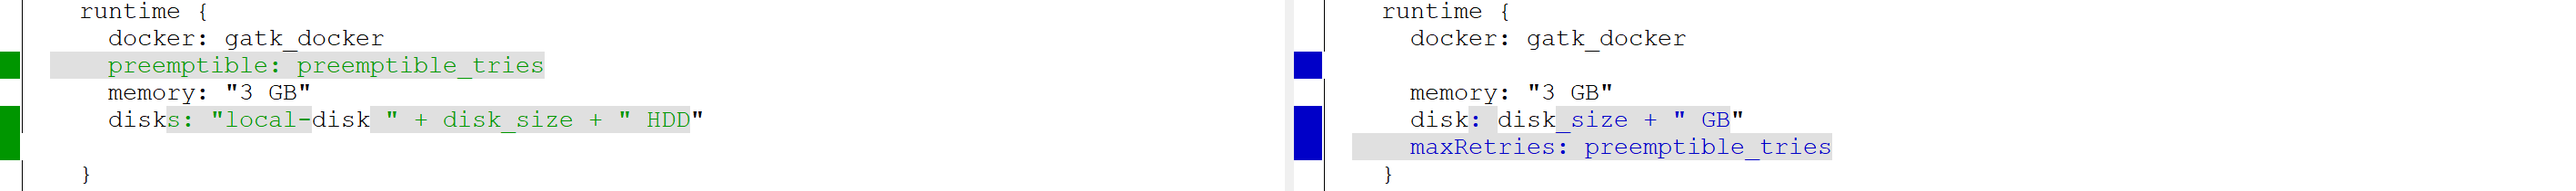
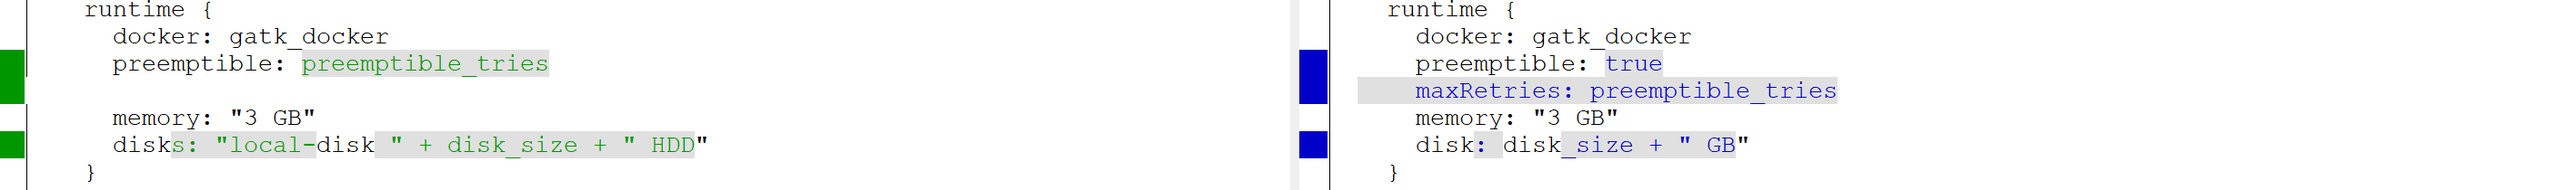
Incorporate feedback
Categorize README links at the top
Fix "preemptible" attribute use guidance; add other unsupported attribute to list
Update screenshots
Grammar and spelling changes

diff --git a/docs/troubleshooting-guide.md b/docs/troubleshooting-guide.md
@@ -1,4 +1,4 @@
-# FAQs, advanced troubleshooting and known issues for Crowmwell on Azure
+# FAQs, advanced troubleshooting and known issues for Cromwell on Azure
 
 This article answers FAQs, describes advanced features that allow customization and debugging of Cromwell on Azure, as well as how to diagnose, debug, and work around [known issues](#Known-Issues-And-Mitigation). We are actively tracking these as bugs to be fixed in upcoming releases!
 
@@ -13,23 +13,23 @@ This article answers FAQs, describes advanced features that allow customization 
    * How can I see [how far along my workflow has progressed?](#Check-all-tasks-running-for-a-workflow-using-Batch-account)
    * My workflow failed at task X. Where should I look to determine why it failed?
      * [Which tasks failed?](#Find-which-tasks-failed-in-a-workflow)
-     * Some tasks are stuck or my workflow is stuck in the "inprogess" directory in the "workflows" container. [Were there Azure infrastructure issues?](#Make-sure-there-are-no-Azure-infrastructure-errors)
+     * Some tasks are stuck or my workflow is stuck in the "inprogress" directory in the "workflows" container. [Were there Azure infrastructure issues?](#Make-sure-there-are-no-Azure-infrastructure-errors)
 
 3. Customizing your instance
    * How do I [use input data files for my workflows from a different Azure Storage account](#Use-input-data-files-from-an-existing-Storage-account-that-my-lab-or-team-is-currently-using) that my lab or team is currently using?
-   * Can I connect a different [Batch account with previously increased quotas](#Use-a-Batch-account-for-which-I-have-already-requested-or-received-increased-cores-quota-from-Azure-Support) to run my workflows?
-   * How can I [use private docker containers for my workflows?](#Use-private-docker-containers-hosted-on-Azure)
-   * A lot of tasks for my workflows run longer than 24 hours and have been randomly stopped. How can I [run all my tasks on dedicated Batch VMs](#Configure-my-Cromwell-on-Azure-instance-to-use-dedicated-Batch-VMs-to-avoid-getting-preempted)
+   * Can I connect a different [batch account with previously increased quotas](#Use-a-batch-account-for-which-I-have-already-requested-or-received-increased-cores-quota-from-Azure-Support) to run my workflows?
+   * How can I [use private Docker containers for my workflows?](#Use-private-docker-containers-hosted-on-Azure)
+   * A lot of tasks for my workflows run longer than 24 hours and have been randomly stopped. How can I [run all my tasks on dedicated batch VMs](#Configure-my-Cromwell-on-Azure-instance-to-always-use-dedicated-Batch-VMs-to-avoid-getting-preempted)
    * Can I get [direct access to Cromwell's REST API?](#Access-the-Cromwell-REST-API-directly-from-Linux-host-VM)
 
 4. Performance & Optimization
    * How can I figure out how much Cromwell on Azure costs me?
      * How much am I [paying for my Cromwell on Azure instance?](#Cost-analysis-for-Cromwell-on-Azure)
-     * How are [Batch VMs selected to run tasks in a workflow?](#How-Cromwell-on-Azure-selects-Batch-VMs-to-run-tasks-in-a-workflow)
+     * How are [batch VMs selected to run tasks in a workflow?](#How-Cromwell-on-Azure-selects-batch-VMs-to-run-tasks-in-a-workflow)
    * Do you have guidance on how to [optimize my WDLs](#Optimize-my-WDLs)?
 
-5. Miscellanous
-   * I cannot find my issue in this document and [want more information](#Get-container-logs-to-debug-issues) from Cromwell, MySQL, or TES docker container logs.
+5. Miscellaneous
+   * I cannot find my issue in this document and [want more information](#Get-container-logs-to-debug-issues) from Cromwell, MySQL, or TES Docker container logs.
    * I am running a large amount of workflows and [MySQL storage disk is full](#I-am-running-a-large-amount-of-workflows-and-MySQL-storage-disk-is-full)
 
 
@@ -75,15 +75,12 @@ This section is COMING SOON.
 ### Debug my Cromwell on Azure installation that ran into an error
 When the Cromwell on Azure installer is run, if there are errors, the logs are printed in the terminal. Most errors are related to insufficient permissions to create resources in Azure on your behalf, or intermittent Azure failures. In case of an error, we terminate the installation process and begin deleting all the resources in the Resource Group if already created. <br/>
 
-Deleting all the resources in the Resource Group may take a while but as soon as you see logs that the Batch account was deleted, you may exit the current process using Ctrl+C or Command+C on terminal/command prompt/PowerShell. The deletion of other Azure resources can continue in the background on Azure. Re-run the installer after fixing any user errors like permissions from the previous try.
+Deleting all the resources in the Resource Group may take a while but as soon as you see logs that the batch account was deleted, you may exit the current process using Ctrl+C or Command+C on terminal/command prompt/PowerShell. The deletion of other Azure resources can continue in the background on Azure. Re-run the installer after fixing any user errors like permissions from the previous try.
 
 If you see an issue that is unrelated to your permissions, and re-trying the installer does not fix it, please file a bug on our GitHub issues.
 
 ### Upgrade my Cromwell on Azure instance
-Starting in version 1.x, for convenience, some configuration files are hosted on your Cromwell on Azure Storage account, in the "configuration" container - `containers-to-mount`, and `cromwell-application.conf`. You can modify and save these file using Azure Portal UI "Edit Blob" option or simply upload a new file to replace the existing one. Please create the "configuration" container in the if it isn't there already.<br/>
-
-[Follow these steps](https://github.com/microsoft/CromwellOnAzure/releases/tag/1.3.0) to upgrade your Cromwell on Azure instance.
-
+Starting in version 1.x, for convenience, some configuration files are hosted on your Cromwell on Azure storage account, in the "configuration" container - `containers-to-mount`, and `cromwell-application.conf`. You can modify and save these file using Azure Portal UI "Edit Blob" option or simply upload a new file to replace the existing one. Please create the "configuration" container in your storage account if it isn't there already; and then [follow these steps](https://github.com/microsoft/CromwellOnAzure/releases/tag/1.3.0) to upgrade your Cromwell on Azure instance.
 
 ## Analysis
 ### Job failed immediately
@@ -97,7 +94,7 @@ If a workflow you start has a task that failed immediately and lead to workflow 
 > Example file path for an "inputs" container in a storage account "msgenpublicdata" will look like
 `"/msgenpublicdata/inputs/chr21.read1.fq.gz"`
 
-Another possibility is that you are trying to use a Storage account that hasn't been mounted to your Cromwell on Azure instance - either by [default during setup](../README.md/#Cromwell-on-Azure-deployed-resources) or by following these steps to [mount a different Storage account](#Use-input-data-files-from-an-existing-Storage-account-that-my-lab-or-team-is-currently-using). <br/>
+Another possibility is that you are trying to use a storage account that hasn't been mounted to your Cromwell on Azure instance - either by [default during setup](../README.md/#Cromwell-on-Azure-deployed-resources) or by following these steps to [mount a different storage account](#Use-input-data-files-from-an-existing-Storage-account-that-my-lab-or-team-is-currently-using). <br/>
 
 Check out these [known issues and mitigation](#Known-Issues-And-Mitigation) for more commonly seen issues caused by bugs we are actively tracking.
 
@@ -107,7 +104,7 @@ There are also links to ready-to-try WDLs for common workflows [here](../README.
 
 **Instructions to write a WDL file for a pipeline from scratch are COMING SOON.**
 
-### Check all tasks running for a workflow using Batch account
+### Check all tasks running for a workflow using batch account
 Each task in a workflow starts an Azure Batch VM. To see currently active tasks, navigate to your Azure Batch account connected to Cromwell on Azure on Azure Portal. Click on "Jobs" and then search for the Cromwell `workflowId` to see all tasks associated with a workflow.<br/>
 
 ![Batch account](screenshots/batch-account.png)
@@ -140,9 +137,9 @@ You can explore exceptions or logs to find the reason for failure, and use time 
 
 
 ## Customizing your Cromwell on Azure instance
-### Connect to the host VM that runs all the docker containers
+### Connect to the host VM that runs all the Docker containers
 
-To get logs from all the docker containers or to use the Cromwell REST API endpoints, you may want to connect to the Linux host VM. At installation, a user is created to allow managing the host VM with username "vmadmin". The password is randomly generated and shown during installation. If you need to reset your VM password, you can do this using the Azure Portal or by following these [instructions](https://docs.microsoft.com/en-us/azure/virtual-machines/troubleshooting/reset-password). 
+To get logs from all the Docker containers or to use the Cromwell REST API endpoints, you may want to connect to the Linux host VM. At installation, a user is created to allow managing the host VM with username "vmadmin". The password is randomly generated and shown during installation. If you need to reset your VM password, you can do this using the Azure Portal or by following these [instructions](https://docs.microsoft.com/en-us/azure/virtual-machines/troubleshooting/reset-password). 
 
 ![Reset password](/docs/screenshots/resetpassword.PNG)
 
@@ -150,20 +147,20 @@ To connect to your host VM, you can either
 1. Construct your ssh connection string if you have the VM name `ssh vmadmin@<hostname>` OR
 2. Navigate to the Connect button on the Overview blade of your Azure VM instance, then copy the ssh connection string. 
 
-Paste the ssh connectiong string in a command line, PowerShell or terminal application to log in.
+Paste the ssh connection string in a command line, PowerShell or terminal application to log in.
 
 ![Connect with SSH](/docs/screenshots/connectssh.PNG)
 
-### Use input data files from an existing Storage account that my lab or team is currently using
+### Use input data files from an existing storage account that my lab or team is currently using
 Navigate to the "configuration" container in the Cromwell on Azure Storage account. Replace YOURSTORAGEACCOUNTNAME with your storage account name and YOURCONTAINERNAME with your container name in the `containers-to-mount` file below:
 ```
 /YOURSTORAGEACCOUNTNAME/YOURCONTAINERNAME/
 ```
 Add this to the end of file and save your changes.<br/>
 
-To allow the host VM to write to a Storage account, [add the VM identity as a Contributor](/README.md/#Connect-to-existing-Azure-resources-I-own-that-are-not-part-of-the-Cromwell-on-Azure-instance-by-default) to the Storage Account via Azure Portal or Azure CLI.<br/>
+To allow the host VM to write to a storage account, [add the VM identity as a Contributor](/README.md/#Connect-to-existing-Azure-resources-I-own-that-are-not-part-of-the-Cromwell-on-Azure-instance-by-default) to the Storage Account via Azure Portal or Azure CLI.<br/>
 
-Alternatively, you can choose to add a [SAS url for your desired container](https://docs.microsoft.com/en-us/azure/storage/common/storage-sas-overview) to the end of the `containers-to-mount` file. This is also applicable if your VM cannot be granted Contributor access to the Storage account because the two resources are in different Azure tenants
+Alternatively, you can choose to add a [SAS url for your desired container](https://docs.microsoft.com/en-us/azure/storage/common/storage-sas-overview) to the end of the `containers-to-mount` file. This is also applicable if your VM cannot be granted Contributor access to the storage account because the two resources are in different Azure tenants
 ```
 https://<yourstorageaccountname>.blob.core.windows.net:443/<yourcontainername>?<sastoken>
 ```
@@ -172,34 +169,34 @@ When using the newly mounted storage account in your inputs JSON file, use the p
 
 For these changes to take effect, be sure to restart your Cromwell on Azure VM through the Azure Portal UI.
 
-### Use a Batch account for which I have already requested or received increased cores quota from Azure Support
-[Log on to the host VM](#Connect-to-the-host-VM-that-runs-all-the-docker-containers) using the ssh connection string as described in the instructions. Replace `BatchAccountName` environment variable for the "tes" service in the `docker-compose.yml` file with the name of the desired Batch account and save your changes.<br/>
+### Use a batch account for which I have already requested or received increased cores quota from Azure Support
+[Log on to the host VM](#Connect-to-the-host-VM-that-runs-all-the-docker-containers) using the ssh connection string as described in the instructions. Replace `BatchAccountName` environment variable for the "tes" service in the `docker-compose.yml` file with the name of the desired batch account and save your changes.<br/>
 
 ```
 cd /cromwellazure/
 sudo nano docker-compose.yml
 # Modify the BatchAccountName to your Batch Account name and save the file
 ```
-To allow the host VM to use a batch account, [add the VM identity as a Contributor](../README.md/#Connect-to-existing-Azure-resources-I-own-that-are-not-part-of-the-Cromwell-on-Azure-instance-by-default) to the Azure Batch account via Azure Portal or Azure CLI.<br/>
+To allow the host VM to use a batch account, [add the VM identity as a Contributor](../README.md/#Connect-to-existing-Azure-resources-I-own-that-are-not-part-of-the-Cromwell-on-Azure-instance-by-default) to the Azure batch account via Azure Portal or Azure CLI.<br/>
 To allow the host VM to read prices and information about types of machines available for the batch account, [add the VM identity as a Billing Reader](../README.md/#Connect-to-existing-Azure-resources-I-own-that-are-not-part-of-the-Cromwell-on-Azure-instance-by-default) to the subscription with the configured Batch Account.
 
 For these changes to take effect, be sure to restart your Cromwell on Azure VM through the Azure Portal UI or run `sudo reboot`. or run `sudo reboot`.
 
-### Use private docker containers hosted on Azure
-Cromwell on Azure supports private docker images for your WDL tasks hosted on [Azure Container Registry or ACR](https://docs.microsoft.com/en-us/azure/container-registry/).
+### Use private Docker containers hosted on Azure
+Cromwell on Azure supports private Docker images for your WDL tasks hosted on [Azure Container Registry or ACR](https://docs.microsoft.com/en-us/azure/container-registry/).
 To allow the host VM to use an ACR, [add the VM identity as a Contributor](../README.md/#Connect-to-existing-Azure-resources-I-own-that-are-not-part-of-the-Cromwell-on-Azure-instance-by-default) to the Container Registry via Azure Portal or Azure CLI.<br/>
 
-### Configure my Cromwell on Azure instance to use dedicated Batch VMs to avoid getting preempted
-By default, we are using an environment variable `UsePreemptibleVmsOnly` set to true, to always use low priority Azure Batch nodes.<br/>
+### Configure my Cromwell on Azure instance to always use dedicated batch VMs to avoid getting preempted
+By default, we are using an environment variable `UsePreemptibleVmsOnly` set to true, to always use low priority Azure batch nodes.<br/>
 
-If you prefer to use dedicated Azure Batch nodes, [log on to the host VM](#Connect-to-the-host-VM-that-runs-all-the-docker-containers) using the ssh connection string as described in the instructions. Replace `UsePreemptibleVmsOnly` environment variable for the "tes" service to "false" in the `docker-compose.yml` file and save your changes.<br/>
+If you prefer to use dedicated Azure Batch nodes for all tasks, [log on to the host VM](#Connect-to-the-host-VM-that-runs-all-the-docker-containers) using the ssh connection string as described in the instructions. Replace `UsePreemptibleVmsOnly` environment variable for the "tes" service to "false" in the `docker-compose.yml` file and save your changes.<br/>
 
 ```
 cd /cromwellazure/
 sudo nano docker-compose.yml
 # Modify UsePreemptibleVmsOnly to false and save the file
 ```
-
+Note that, you can set this for each task individually by using the `preemptible` boolean flag set to `true` or `false` in the "runtime" attributes section of your task. The `preemptible` runtime attribute will overwrite the `UsePreemptibleVmsOnly` environment variable setting for a particular task.<br/>
 For these changes to take effect, be sure to restart your Cromwell on Azure VM through the Azure Portal UI or run `sudo reboot`.
 
 ### Access the Cromwell REST API directly from Linux host VM
@@ -225,8 +222,8 @@ To learn more about your Cromwell on Azure Resource Group's cost, navigate to th
 
 You can also use the [Pricing Calculator](https://azure.microsoft.com/en-us/pricing/calculator/) to estimate your monthly cost.
 
-### How Cromwell on Azure selects Batch VMs to run tasks in a workflow
-VM price data is used to select the most cost-effective VM for a task's runtime requirements, and is also stored in the TES database to allow calculation of total workflow cost.  VM price data is obtained from the [Azure RateCard API](https://docs.microsoft.com/en-us/previous-versions/azure/reference/mt219005(v=azure.100)).  Accessing the Azure RateCard API requires the VM's [Billing Reader](https://docs.microsoft.com/en-us/azure/role-based-access-control/built-in-roles#billing-reader) role to be assigned to your Azure subscription scope.  If you don't have [Owner](https://docs.microsoft.com/en-us/azure/role-based-access-control/built-in-roles#owner), or both [Contributor](https://docs.microsoft.com/en-us/azure/role-based-access-control/built-in-roles#contributor) and [User Access Administrator](https://docs.microsoft.com/en-us/azure/role-based-access-control/built-in-roles#user-access-administrator) roles assigned to your Azure subscription, the deployer will not be able to complete this on your behalf - you will need to contact your Azure subscription administrator(s) to complete this for you.  You will see a warning in the TES logs indicating that default VM prices are being used until this is resolved.
+### How Cromwell on Azure selects batch VMs to run tasks in a workflow
+VM price data is used to select the cheapest per hour VM for a task's runtime requirements, and is also stored in the TES database to allow calculation of total workflow cost.  VM price data is obtained from the [Azure RateCard API](https://docs.microsoft.com/en-us/previous-versions/azure/reference/mt219005(v=azure.100)).  Accessing the Azure RateCard API requires the VM's [Billing Reader](https://docs.microsoft.com/en-us/azure/role-based-access-control/built-in-roles#billing-reader) role to be assigned to your Azure subscription scope.  If you don't have [Owner](https://docs.microsoft.com/en-us/azure/role-based-access-control/built-in-roles#owner), or both [Contributor](https://docs.microsoft.com/en-us/azure/role-based-access-control/built-in-roles#contributor) and [User Access Administrator](https://docs.microsoft.com/en-us/azure/role-based-access-control/built-in-roles#user-access-administrator) roles assigned to your Azure subscription, the deployer will not be able to complete this on your behalf - you will need to contact your Azure subscription administrator(s) to complete this for you.  You will see a warning in the TES logs indicating that default VM prices are being used until this is resolved.
 
 ### Optimize my WDLs
 This section is COMING SOON.
@@ -234,12 +231,12 @@ This section is COMING SOON.
 
 ## Miscellaneous
 ### Get container logs to debug issues
-The host VM is running multiple docker containers that enable Cromwell on Azure - mysql, broadinstitute/cromwell, cromwellonazure/tes, cromwellonazure/triggerservice. On rare occasions, you may want to debug and diagnose issues with the docker containers. After [logging in to the host VM](#Connect-to-the-host-VM-that-runs-all-the-docker-containers), run: 
+The host VM is running multiple Docker containers that enable Cromwell on Azure - mysql, broadinstitute/cromwell, cromwellonazure/tes, cromwellonazure/triggerservice. On rare occasions, you may want to debug and diagnose issues with the Docker containers. After [logging in to the host VM](#Connect-to-the-host-VM-that-runs-all-the-docker-containers), run: 
 ```
 sudo docker ps
 ```
 
-This command will list the names of all the docker containers currently running. To get logs for a particular container, run: 
+This command will list the names of all the Docker containers currently running. To get logs for a particular container, run: 
 ```
 sudo docker logs 'containerName'
 ```

diff --git a/README.md b/README.md
@@ -1,17 +1,19 @@
 # Welcome to Cromwell on Azure
 
-What is [Cromwell on Azure?](#Cromwell-on-Azure) <br/>
-Deploy Cromwell on Azure now using this [guide](#Deploy-your-instance-of-Cromwell-on-Azure)<br/>
-A brief [demo video](https://youtu.be/QlRQ63n_mKw) on how to run workflows using Cromwell on Azure<br/>
+#### Getting started
+ * What is [Cromwell on Azure?](#Cromwell-on-Azure) <br/>
+ * Deploy Cromwell on Azure now using this [guide](#Deploy-your-instance-of-Cromwell-on-Azure)<br/>
+ * A brief [demo video](https://youtu.be/QlRQ63n_mKw) on how to run workflows using Cromwell on Azure<br/>
 
-Prepare, start or abort your worklow [using this guide](docs/managing-your-workflow.md/#Managing-your-workflow)<br/>
-Here is an example workflow to [convert FASTQ files to uBAM files](docs/example-fastq-to-ubam.md/#Example-workflow-to-convert-FASTQ-files-to-uBAM-files)<br/>
-Have an existing WDL file that you want to run on Azure? [Modify your existing WDL with these adaptations for Azure](docs/change-existing-WDL-for-Azure.md/#How-to-modify-an-existing-WDL-file-to-run-on-Cromwell-on-Azure)<br/>
+#### Running workflows
+ * Prepare, start or abort your workflow [using this guide](docs/managing-your-workflow.md/#Managing-your-workflow)<br/>
+ * Here is an example workflow to [convert FASTQ files to uBAM files](docs/example-fastq-to-ubam.md/#Example-workflow-to-convert-FASTQ-files-to-uBAM-files)<br/>
+ * Have an existing WDL file that you want to run on Azure? [Modify your existing WDL with these adaptations for Azure](docs/change-existing-WDL-for-Azure.md/#How-to-modify-an-existing-WDL-file-to-run-on-Cromwell-on-Azure)<br/>
+ * Want to run commonly used workflows? [Find links to ready-to-use workflows here](#Run-Common-Workflows)<br/>
 
-Want to run commonly used workflows? [Find links to ready-to-use workflows here](#Run-Common-Workflows)<br/>
-
-Questions? See our [Troubleshooting Guide](docs/troubleshooting-guide.md/#FAQs,-advanced-troubleshooting-and-known-issues-for-Crowmwell-on-Azure) for more information.<br/>
-Known issues and work-arounds are [documented here](docs/troubleshooting-guide.md/#Known-Issues-And-Mitigation)<br/>
+#### Questions?
+ * See our [Troubleshooting Guide](docs/troubleshooting-guide.md/#FAQs,-advanced-troubleshooting-and-known-issues-for-Cromwell-on-Azure) for more information.<br/>
+ * Known issues and work-arounds are [documented here](docs/troubleshooting-guide.md/#Known-Issues-And-Mitigation)<br/>
 
 If you are running into an issue and cannot find any information in the troubleshooting guide, please open a GitHub issue!<br/>
 
@@ -28,7 +30,7 @@ Cromwell on Azure configures all Azure resources needed to run workflows through
 
 ### Prerequisites
 
-1. You will need an [Azure Subscription](https://portal.azure.com/) to deploy Cromwell on Azure, if you don't already have one.
+1. You will need an [Azure Subscription](https://portal.azure.com/) to deploy Cromwell on Azure.
 2. You must have the proper [Azure role assignments](https://docs.microsoft.com/en-us/azure/role-based-access-control/overview) to deploy Cromwell on Azure.  To check your current role assignments, please follow [these instructions](https://docs.microsoft.com/en-us/azure/role-based-access-control/check-access).  You must have one of the following combinations of [role assignments](https://docs.microsoft.com/en-us/azure/role-based-access-control/built-in-roles):
    1. `Owner` of the subscription<br/>
    2. `Contributor` and `User Access Administrator` of the subscription
@@ -36,7 +38,7 @@ Cromwell on Azure configures all Azure resources needed to run workflows through
       . *Note: this level of access will result in a warning during deployment, and will not use the latest VM pricing data.</i>  [Learn more](/docs/troubleshooting-guide.md/#How-are-Batch-VMs-selected-to-run-tasks-in-a-workflow?).  Also, you must specify the resource group name during deployment with this level of access (see below).*
    4.  Note: if you only have `Service Administrator` as a role assignment, please assign yourself as `Owner` of the subscription.
 3. Install the [Azure Command Line Interface (az cli)](https://docs.microsoft.com/en-us/cli/azure/?view=azure-cli-latest), a command line experience for managing Azure resources.
-4. Run `az login` to authenticate with Azure
+4. Run `az login` to authenticate with Azure.
 
 
 ### Download the deployment executable
@@ -103,7 +105,7 @@ For convenience, some configuration files are hosted on your Cromwell on Azure S
 ![Edit Configuration](/docs/screenshots/edit-config.png)
 
 
-See [this section in the advanced configuration on details of how to connect a different Storage account, Batch account, or a private Azure Container Registry](/docs/troubleshooting-guide.md/#Customizing-your-Cromwell-on-Azure-instance).<br/>
+See [this section in the advanced configuration on details of how to connect a different storage account, batch account, or a private Azure Container Registry](/docs/troubleshooting-guide.md/#Customizing-your-Cromwell-on-Azure-instance).<br/>
 
 
 For these changes to take effect, be sure to restart your Cromwell on Azure VM through the Azure Portal UI or run `sudo reboot`.
@@ -113,7 +115,7 @@ For these changes to take effect, be sure to restart your Cromwell on Azure VM t
 
 ### Hello World WDL test
 
-As part of the Cromwell on Azure deployment, a "Hello World" workflow is automatically run as a check. The input files for this workflow are found in the `inputs` container, and the output files can be found in the `cromwell-executions` container of your default Storage account. 
+As part of the Cromwell on Azure deployment, a "Hello World" workflow is automatically run as a check. The input files for this workflow are found in the `inputs` container, and the output files can be found in the `cromwell-executions` container of your default storage account. 
 Once it runs to completion you can find the trigger JSON file that started the workflow in the `workflows` container in the `succeeded` directory, if it ran successfully.<br/>
 
 Hello World WDL file:
@@ -144,7 +146,7 @@ Hello World inputs.json file:
 }
 ```
 
-Hello World trigger JSON file as seen in your Storage account's `workflows` container in the `succeeded` directory:
+Hello World trigger JSON file as seen in your storage account's `workflows` container in the `succeeded` directory:
 ```
 {
   "WorkflowUrl": "/<storageaccountname>/inputs/test/test.wdl",

diff --git a/docs/managing-your-workflow.md b/docs/managing-your-workflow.md
@@ -8,7 +8,7 @@
 
 ### How to prepare a Workflow Description Language (WDL) file that runs a workflow on Cromwell on Azure
 
-For any pipeline, you can create a [WDL](https://software.broadinstitute.org/wdl/) file that calls your tools in docker containers. Please note that Cromwell on Azure only supports tasks with docker containers defined for security reasons.<br/>
+For any pipeline, you can create a [WDL](https://software.broadinstitute.org/wdl/) file that calls your tools in Docker containers. Please note that Cromwell on Azure only supports tasks with Docker containers defined for security reasons.<br/>
 
 In order to run a WDL file, you must modify/create a workflow with the following runtime attributes for the tasks that are compliant with the [TES or Task Execution Schemas](https://cromwell.readthedocs.io/en/develop/backends/TES/):
 
@@ -28,7 +28,9 @@ Ensure that the attributes `memory` and `disk` (note: use the singular form for 
 > GB - "GB", "G", "GiB", "Gi"<br/>
 > TB - "TB", "T", "TiB", "Ti"<br/>
 
-`preemptible` and `zones` attributes are currently not being passed through Broad's Cromwell to the TES backend, and hence are not supported.<br/>
+The `preemptible` attribute is a boolean (not an integer). You can specify `preemptible` as `true` or `false` for each task. When set to `true` Cromwell on Azure will use a [low-priority batch VM](https://docs.microsoft.com/en-us/azure/batch/batch-low-pri-vms#use-cases-for-low-priority-vms) to run the task.<br/>
+
+`bootDiskSizeGb` and `zones` attributes are not supported by the TES backend.<br/>
 Each of these runtime attributes are specific to your workflow and tasks within those workflows. The default values for resource requirements are as set above.<br/>
 Learn more about Cromwell's runtime attributes [here](https://cromwell.readthedocs.io/en/develop/RuntimeAttributes).
 
@@ -69,7 +71,7 @@ When using WDL and inputs JSON file hosted on your private Azure Storage account
 https://<storageaccountname>.blob.core.windows.net/inputs/test/test.wdl
 ```
 
-You can also use the `/<storageaccountname>/<containername>/<blobName>` format for any Storage account that is mounted to your Cromwell on Azure instance. By default, Cromwell on Azure mounts a Storage account to your instance, which is found in your resource group after a successful deployment. You can [follow these steps](/docs/troubleshooting-guide.md/#Use-input-data-files-from-an-existing-Storage-account-that-my-lab-or-team-is-currently-using) to mount a different Storage account that you manage or own, to your Cromwell on Azure instance.
+You can also use the `/<storageaccountname>/<containername>/<blobName>` format for any storage account that is mounted to your Cromwell on Azure instance. By default, Cromwell on Azure mounts a storage account to your instance, which is found in your resource group after a successful deployment. You can [follow these steps](/docs/troubleshooting-guide.md/#Use-input-data-files-from-an-existing-Storage-account-that-my-lab-or-team-is-currently-using) to mount a different storage account that you manage or own, to your Cromwell on Azure instance.
 
 Alternatively, you can use any http or https path to a TES compliant WDL and inputs.json [using shared access signatures (SAS)](https://docs.microsoft.com/en-us/azure/storage/common/storage-sas-overview) for files in a private Azure Storage account container or refer to any public file location like raw GitHub URLs.
 
@@ -78,7 +80,7 @@ Alternatively, you can use any http or https path to a TES compliant WDL and inp
 
 To start a WDL workflow, go to your Cromwell on Azure Storage account associated with your host VM. In the `workflows` container, place the trigger JSON file in the "new" virtual directory (note: virtual directories do not exist on their own, they are just part of a blob's name). This initiates a Cromwell workflow, and returns a workflow ID that is appended to the trigger JSON file name and transferred to the "inprogress" directory in the `workflows` container.<br/>
 
-This can be done programatically using the [Azure Storage SDKs](https://azure.microsoft.com/en-us/downloads/), or manually via the [Azure Portal](https://portal.azure.com) or [Azure Storage Explorer](https://azure.microsoft.com/en-us/features/storage-explorer/).
+This can be done programmatically using the [Azure Storage SDKs](https://azure.microsoft.com/en-us/downloads/), or manually via the [Azure Portal](https://portal.azure.com) or [Azure Storage Explorer](https://azure.microsoft.com/en-us/features/storage-explorer/).
 
 ### Via the Azure Portal
 ![Select a blob to upload from the portal](screenshots/newportal.PNG)<br/>

diff --git a/docs/change-existing-WDL-for-Azure.md b/docs/change-existing-WDL-for-Azure.md
@@ -1,6 +1,6 @@
 # How to modify an existing WDL file to run on Cromwell on Azure
 
-For any pipeline, you can create a [WDL](https://software.broadinstitute.org/wdl/) file that calls your tools in docker containers. Please note that Cromwell on Azure only supports tasks with docker containers defined for security reasons.<br/>
+For any pipeline, you can create a [WDL](https://software.broadinstitute.org/wdl/) file that calls your tools in Docker containers. Please note that Cromwell on Azure only supports tasks with Docker containers defined for security reasons.<br/>
 
 In order to run a WDL file, you must modify/create a workflow with the following runtime attributes for the tasks that are compliant with the [TES or Task Execution Schemas](https://cromwell.readthedocs.io/en/develop/backends/TES/):
 
@@ -20,7 +20,9 @@ Ensure that the attributes `memory` and `disk` (note: use the singular form for 
 > GB - "GB", "G", "GiB", "Gi"<br/>
 > TB - "TB", "T", "TiB", "Ti"<br/>
 
-`preemptible` and `zones` attributes are currently not being passed through Broad's Cromwell to the TES backend, and hence are not supported.<br/>
+The `preemptible` attribute is a boolean (not an integer). You can specify `preemptible` as `true` or `false` for each task. When set to `true` Cromwell on Azure will use a [low-priority batch VM](https://docs.microsoft.com/en-us/azure/batch/batch-low-pri-vms#use-cases-for-low-priority-vms) to run the task.<br/>
+
+`bootDiskSizeGb` and `zones` attributes are not supported by the TES backend.<br/>
 Each of these runtime attributes are specific to your workflow and tasks within those workflows. The default values for resource requirements are as set above.<br/>
 Learn more about Cromwell's runtime attributes [here](https://cromwell.readthedocs.io/en/develop/RuntimeAttributes).
 
@@ -34,11 +36,12 @@ Left panel shows a WDL file created for GCP whereas the right panel is the modif
 
 ## Using maxRetries to replace the preemptible attribute
 
-If you want to use the `preemptible` attribute but don’t use `maxRetries` for a task, consider replacing `preemptible` by `maxRetries` to keep the retry functionality. Remember that for Cromwell on Azure, you can either use low-priority VMs in Batch (default configuration) for all tasks or use dedicated VMs for all task by changing the `docker-compose.yml` setting `UsePreemptibleVmsOnly` as described in [this section](/docs/troubleshooting-guide.md/#How-can-I-configure-my-Cromwell-on-Azure-instance-to-use-dedicated-Batch-VMs-to-avoid-getting-preempted?)
+For a GCP WDL, `preemptible` is an integer - specifying the number of retries when using the flag. For Cromwell on Azure, if you want to use the `preemptible` attribute but don’t use `maxRetries` for a task, consider also adding `maxRetries` to keep the retry functionality. Remember that for each task in a workflow, you can either use a low-priority VM in batch (default configuration) or use a dedicated VM by setting `preemptible` to either `true` or `false` respectively.
 
 
 ![Preemptible Attribute](/docs/screenshots/preemptible.PNG)
 
+You can choose to ALWAYS run dedicated VMs for every task, by modifying the `docker-compose.yml` setting `UsePreemptibleVmsOnly` as described in [this section](/docs/troubleshooting-guide.md/#How-can-I-configure-my-Cromwell-on-Azure-instance-to-use-dedicated-Batch-VMs-to-avoid-getting-preempted?). The `preemptible` runtime attribute will overwrite the environment variable setting.
 
 ## Accompanying index files for BAM or VCF files
 

diff --git a/docs/example-fastq-to-ubam.md b/docs/example-fastq-to-ubam.md
@@ -1,6 +1,6 @@
 # Example workflow to convert FASTQ files to uBAM files
 
-This document describes how to run an example workflow that converts input FASTQ  files to uBAM files. This may be combined to other WDL (Workflow Description Language) files and used as part of a larger workflow. 
+This document describes how to run an example workflow that converts input FASTQ files to uBAM files. This may be combined to other WDL (Workflow Description Language) files and used as part of a larger workflow. 
 
 ## Run a sample workflow
 
@@ -43,7 +43,7 @@ The inputs JSON file should contain the following:
 The input path consists of 3 parts - the storage account name, the blob container name, file path with extension. Example file path for an "inputs" container in a storage account "msgenpublicdata" will look like
 `"/msgenpublicdata/inputs/chr21/chr21.read1.fq.gz"`
 
-If you chose to host these files on your own Storage account, replace the name "msgenpublicdata/inputs" to your `<storageaccountname>/<containername>`. <br/>
+If you chose to host these files on your own storage account, replace the name "msgenpublicdata/inputs" to your `<storageaccountname>/<containername>`. <br/>
  
 Alternatively, you can use http or https paths for your input files [using shared access signatures (SAS)](https://docs.microsoft.com/en-us/azure/storage/common/storage-sas-overview) for files in a private Azure Storage account container or refer to any public file location. 
 
